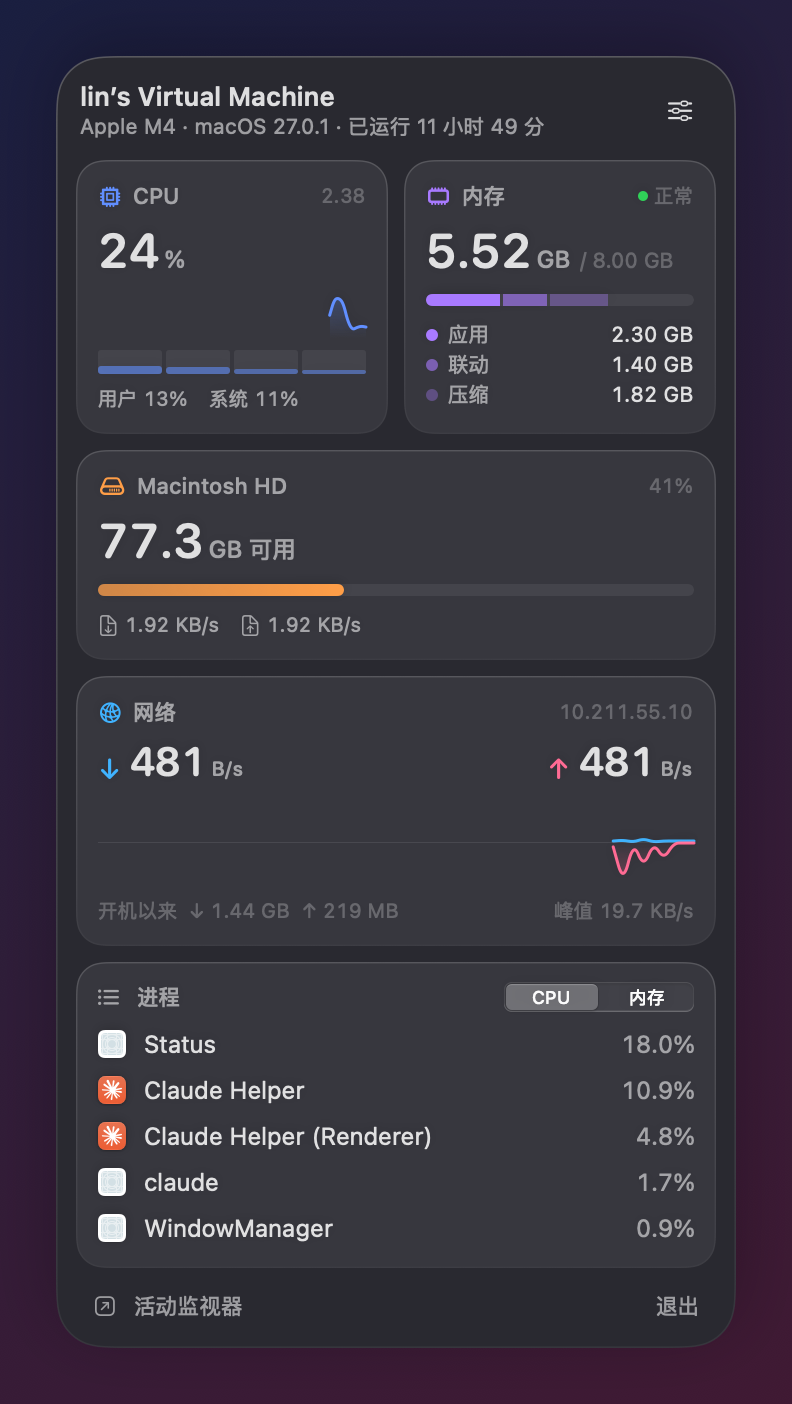
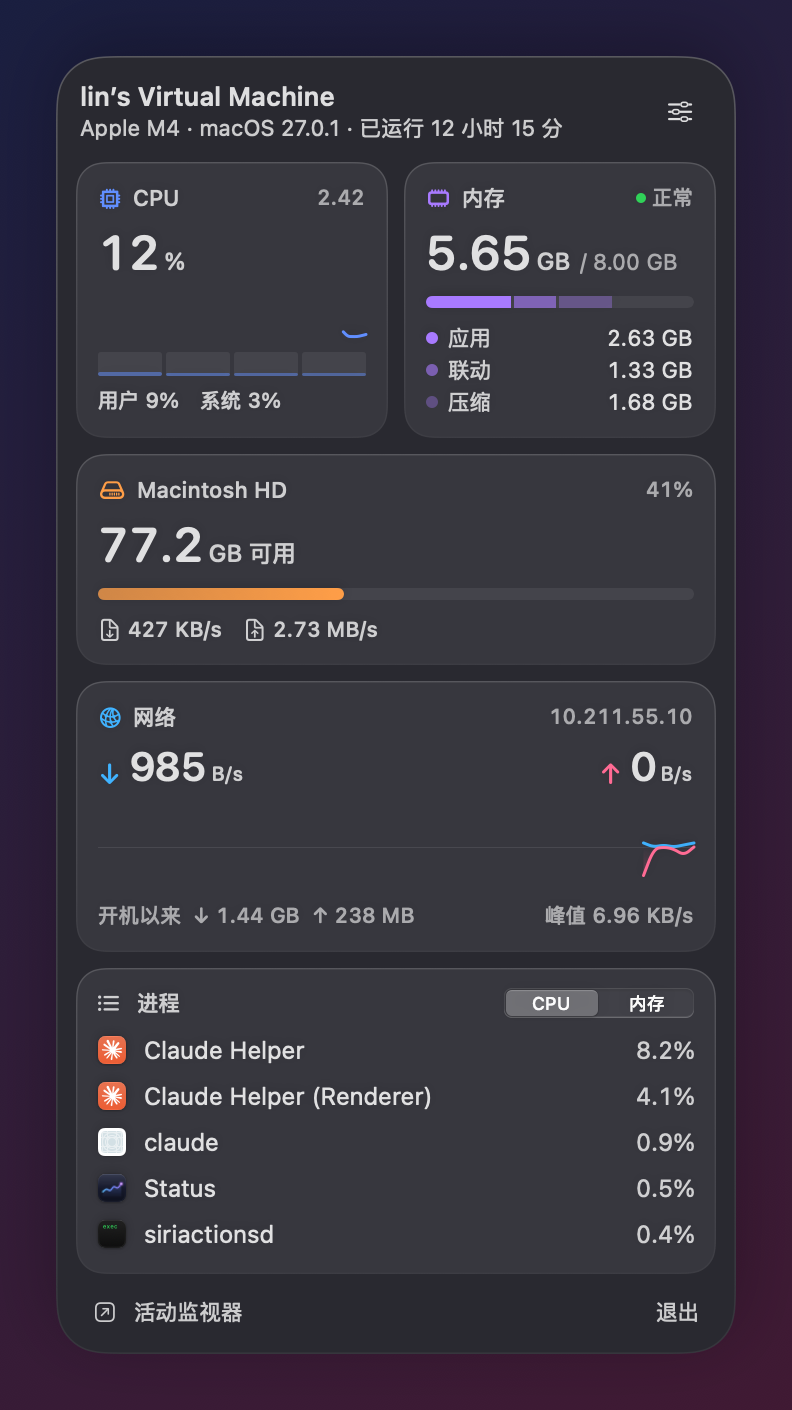
Improve small text legibility on the frosted-glass panel
SwiftUI's .secondary/.tertiary styles use vibrancy inside the
NSVisualEffectView, which blends small text into the blurred backdrop.
Use fixed light/dark "ink" colors instead and bump the smallest text
from 10pt to 10.5pt medium (10.5pt to 11pt). Version 1.0.1.

diff --git a/Sources/Status/PanelView.swift b/Sources/Status/PanelView.swift
@@ -31,8 +31,8 @@ struct PanelView: View {
                     .font(.system(size: 13, weight: .semibold))
                     .lineLimit(1)
                 Text("\(SystemInfo.chip) · \(SystemInfo.osVersion) · 已运行 \(Fmt.uptime(monitor.uptime))")
-                    .font(.system(size: 10.5))
-                    .foregroundStyle(.secondary)
+                    .font(.system(size: 11))
+                    .foregroundStyle(Ink.secondary)
                     .lineLimit(1)
             }
             Spacer()
@@ -63,7 +63,7 @@ struct PanelView: View {
             .keyboardShortcut("q")
         }
         .font(.system(size: 11))
-        .foregroundStyle(.secondary)
+        .foregroundStyle(Ink.secondary)
         .buttonStyle(SubtleButtonStyle())
     }
 
@@ -108,8 +108,8 @@ struct PanelView: View {
                 Text("用户 \(Fmt.percent(monitor.cpu.user))%")
                 Text("系统 \(Fmt.percent(monitor.cpu.system))%")
             }
-            .font(.system(size: 10))
-            .foregroundStyle(.secondary)
+            .font(.system(size: 10.5, weight: .medium))
+            .foregroundStyle(Ink.secondary)
             .monospacedDigit()
         }
     }
@@ -123,8 +123,8 @@ struct PanelView: View {
             HStack(alignment: .firstTextBaseline, spacing: 4) {
                 BigNumber(value: used, unit: unit)
                 Text("/ \(Fmt.memory(m.total))")
-                    .font(.system(size: 10.5))
-                    .foregroundStyle(.tertiary)
+                    .font(.system(size: 11))
+                    .foregroundStyle(Ink.tertiary)
             }
             SegmentBar(segments: [
                 (Double(m.app), Palette.memory),
@@ -137,7 +137,7 @@ struct PanelView: View {
                 Legend(color: Palette.memory.opacity(0.6), label: "联动", value: Fmt.memory(m.wired))
                 Legend(color: Palette.memory.opacity(0.35), label: "压缩", value: Fmt.memory(m.compressed))
                 if m.swapUsed > 0 {
-                    Legend(color: .secondary.opacity(0.4), label: "交换", value: Fmt.memory(m.swapUsed))
+                    Legend(color: Ink.tertiary, label: "交换", value: Fmt.memory(m.swapUsed))
                 }
             }
         }
@@ -169,8 +169,8 @@ struct PanelView: View {
                 Label(Fmt.rate(d.write), systemImage: "arrow.up.doc").help("写入")
             }
             .labelStyle(CompactLabelStyle())
-            .font(.system(size: 10))
-            .foregroundStyle(.secondary)
+            .font(.system(size: 10.5, weight: .medium))
+            .foregroundStyle(Ink.secondary)
             .monospacedDigit()
         }
     }
@@ -192,8 +192,8 @@ struct PanelView: View {
                 Spacer()
                 Text("峰值 \(Fmt.rate(max(monitor.downHistory.max() ?? 0, monitor.upHistory.max() ?? 0)))")
             }
-            .font(.system(size: 10))
-            .foregroundStyle(.tertiary)
+            .font(.system(size: 10.5, weight: .medium))
+            .foregroundStyle(Ink.tertiary)
             .monospacedDigit()
         }
     }
@@ -227,7 +227,7 @@ private struct TemperatureBadge: View {
     let celsius: Double
 
     var body: some View {
-        let color: Color = celsius >= 95 ? .red : celsius >= 80 ? .orange : .secondary
+        let color: Color = celsius >= 95 ? .red : celsius >= 80 ? .orange : Ink.secondary
         HStack(spacing: 2) {
             Image(systemName: "thermometer.medium")
             Text(String(format: "%.0f°C", celsius)).monospacedDigit()
@@ -262,8 +262,8 @@ private struct BatteryCard: View {
             VStack(alignment: .leading, spacing: 1) {
                 BigNumber(value: "\(battery.percent)", unit: "%", size: 20)
                 Text(status)
-                    .font(.system(size: 10.5))
-                    .foregroundStyle(.secondary)
+                    .font(.system(size: 11))
+                    .foregroundStyle(Ink.secondary)
             }
             Spacer()
             Grid(alignment: .leading, horizontalSpacing: 8, verticalSpacing: 2) {
@@ -272,7 +272,7 @@ private struct BatteryCard: View {
                 if let temp = battery.temperature { stat("温度", String(format: "%.1f°C", temp)) }
                 if let watts = battery.watts { stat("功率", String(format: "%.1f W", watts)) }
             }
-            .font(.system(size: 10.5))
+            .font(.system(size: 11))
         }
         .padding(10)
         .card()
@@ -288,7 +288,7 @@ private struct BatteryCard: View {
 
     private func stat(_ label: String, _ value: String) -> some View {
         GridRow {
-            Text(label).foregroundStyle(.secondary)
+            Text(label).foregroundStyle(Ink.secondary)
             Text(value).monospacedDigit().gridColumnAlignment(.trailing)
         }
     }
@@ -336,10 +336,10 @@ private struct ProcessCard: View {
             HStack {
                 Image(systemName: "list.bullet")
                     .font(.system(size: 10, weight: .bold))
-                    .foregroundStyle(.secondary)
+                    .foregroundStyle(Ink.secondary)
                 Text("进程")
                     .font(.system(size: 11, weight: .medium))
-                    .foregroundStyle(.secondary)
+                    .foregroundStyle(Ink.secondary)
                 Spacer()
                 Picker("", selection: $prefs.processSort) {
                     Text("CPU").tag(Preferences.ProcessSort.cpu)
@@ -363,7 +363,7 @@ private struct ProcessCard: View {
                         Spacer(minLength: 8)
                         Text(prefs.processSort == .cpu ? String(format: "%.1f%%", row.cpu) : Fmt.memory(row.memory))
                             .monospacedDigit()
-                            .foregroundStyle(.secondary)
+                            .foregroundStyle(Ink.secondary)
                     }
                     .font(.system(size: 12))
                     .frame(height: 20)
@@ -423,7 +423,7 @@ private struct SettingsView: View {
         VStack(alignment: .leading, spacing: 4) {
             Text(title)
                 .font(.system(size: 11, weight: .medium))
-                .foregroundStyle(.secondary)
+                .foregroundStyle(Ink.secondary)
                 .padding(.leading, 2)
             VStack(spacing: 2, content: content)
                 .font(.system(size: 12))
@@ -437,7 +437,7 @@ private struct SettingsView: View {
         HStack {
             Image(systemName: symbol)
                 .frame(width: 18)
-                .foregroundStyle(.secondary)
+                .foregroundStyle(Ink.secondary)
             Text(title)
             Spacer()
             Toggle("", isOn: binding)

diff --git a/Sources/Status/Components.swift b/Sources/Status/Components.swift
@@ -14,6 +14,23 @@ enum Palette {
     }
 }
 
+// MARK: - Text
+
+/// 次要文字颜色。SwiftUI 的 .secondary/.tertiary 在毛玻璃窗口里会走 vibrancy 混合，
+/// 和背景糊在一起；这里用固定的不透明度，深浅色各自调到足够的对比度。
+enum Ink {
+    static let secondary = dynamic(dark: 0.76, light: 0.68)
+    static let tertiary = dynamic(dark: 0.58, light: 0.52)
+
+    private static func dynamic(dark: CGFloat, light: CGFloat) -> Color {
+        Color(nsColor: NSColor(name: nil) { appearance in
+            appearance.bestMatch(from: [.darkAqua, .aqua]) == .darkAqua
+                ? NSColor(white: 1, alpha: dark)
+                : NSColor(white: 0, alpha: light)
+        })
+    }
+}
+
 // MARK: - Card
 
 /// 磨砂玻璃卡片：半透明的亮色层 + 顶部更亮的细边，叠在面板的毛玻璃上
@@ -54,11 +71,11 @@ struct Tile<Accessory: View, Content: View>: View {
                     .foregroundStyle(tint)
                 Text(title)
                     .font(.system(size: 11, weight: .medium))
-                    .foregroundStyle(.secondary)
+                    .foregroundStyle(Ink.secondary)
                 Spacer(minLength: 0)
                 accessory
-                    .font(.system(size: 10))
-                    .foregroundStyle(.tertiary)
+                    .font(.system(size: 10.5, weight: .medium))
+                    .foregroundStyle(Ink.tertiary)
             }
             content
         }
@@ -89,7 +106,7 @@ struct BigNumber: View {
                 .contentTransition(.numericText())
             Text(unit)
                 .font(.system(size: size * 0.5, weight: .medium, design: .rounded))
-                .foregroundStyle(.secondary)
+                .foregroundStyle(Ink.secondary)
         }
         .animation(.snappy(duration: 0.35), value: value)
     }
@@ -103,11 +120,11 @@ struct Legend: View {
     var body: some View {
         HStack(spacing: 5) {
             Circle().fill(color).frame(width: 6, height: 6)
-            Text(label).foregroundStyle(.secondary)
+            Text(label).foregroundStyle(Ink.secondary)
             Spacer(minLength: 4)
             Text(value).monospacedDigit()
         }
-        .font(.system(size: 10.5))
+        .font(.system(size: 11))
     }
 }
 
